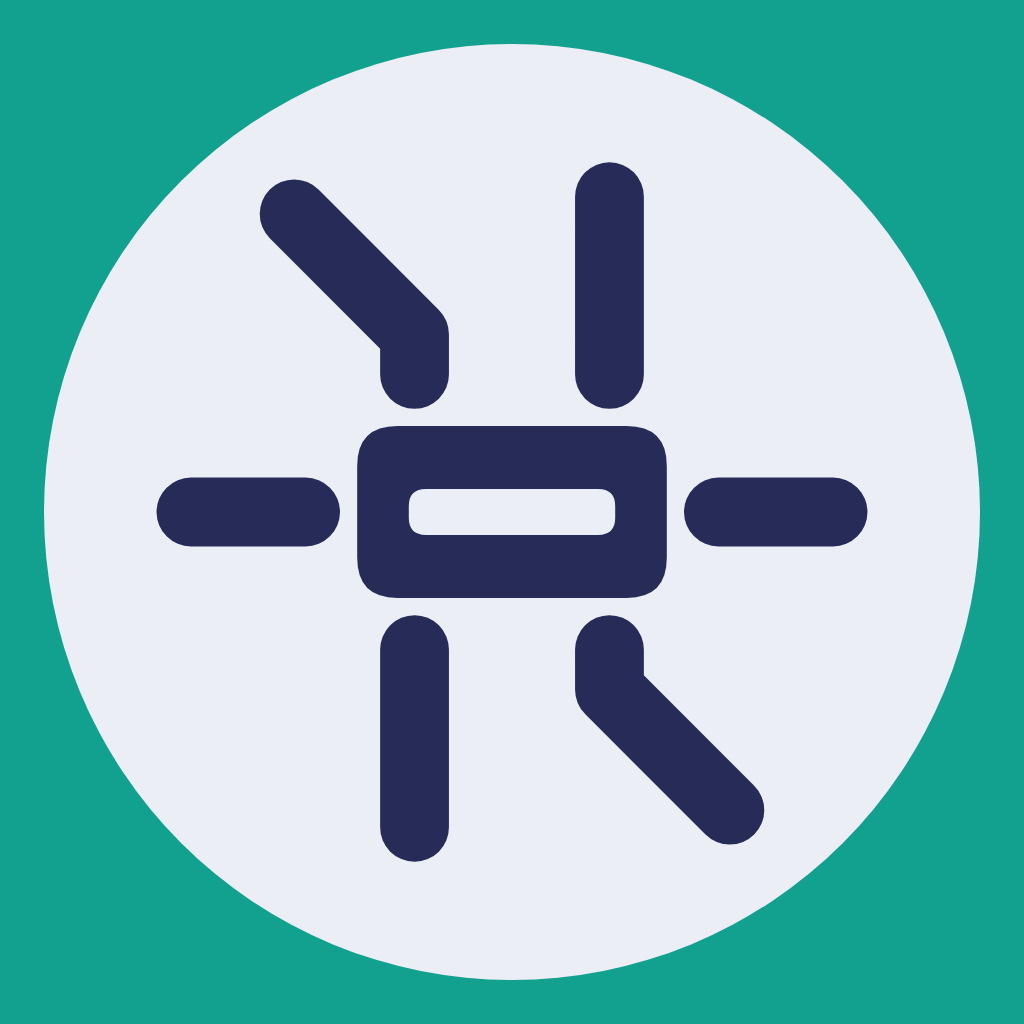
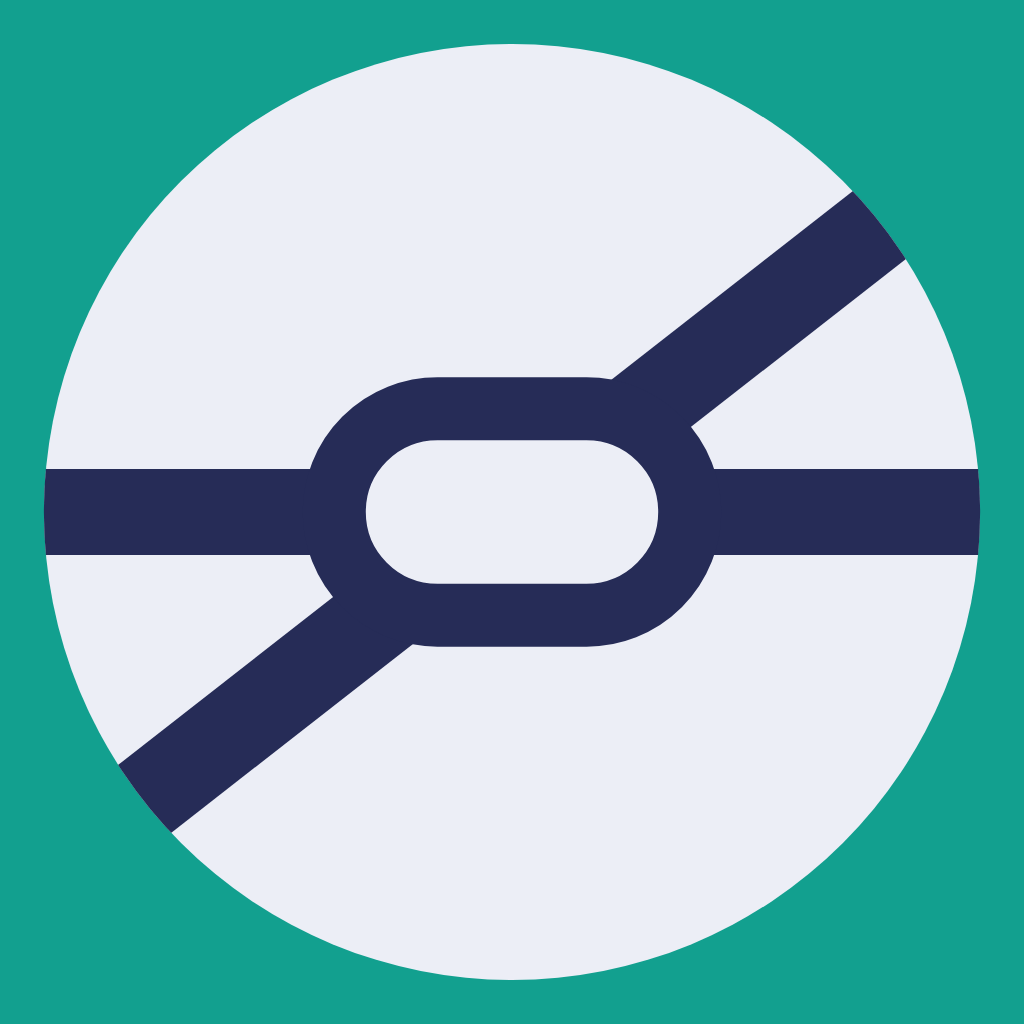
Game Center hub image: two lines through one interchange (decision 396)
Claude-Session: https://claude.ai/code/session_01V99archiZKLqZkwqTnsajc

Changed region(s): [[0.0312, 0.1562, 0.9688, 0.8438]]

diff --git a/docs/game-center/README.md b/docs/game-center/README.md
@@ -34,7 +34,7 @@
 每張都在 64 和 40 px 的圓形裁切、模糊、灰階下看過。
 
 第二輪審查（session_01XHRSea，`claude/art-review-1158:docs/game-center/review/round2.png`）之後：
-- 轉乘：站體改成月台長方形，三條路線像路線圖一樣有轉折，斷在站外（原本的橢圓加六根輻條像蜘蛛或雪花）。
+- 轉乘：改成路線圖的轉乘站記號，一個白底、藏青粗框的膠囊形站體，一條水平線、一條斜線穿過它，兩端都接到圓面邊緣（原本的橢圓加六根輻條像蜘蛛或雪花，斷在站外的版本像太陽）。
 - 環狀線：兩條軌道圍成一圈，枕木畫在兩軌之間（原本伸出外面，像晶片針腳）。
 - 企業集團：摩天輪是主體，百貨和飯店小小地放在下面。
 - 車種齊全：三種車頭改矮、改寬，車窗不同（原本像瓶子）。
